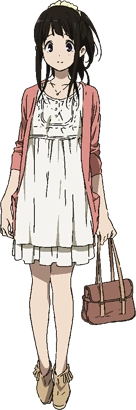
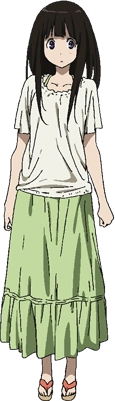
Replace sprites with modest, official school uniforms and winter coat

diff --git a/character.py b/character.py
@@ -18,7 +18,7 @@ from work_tools import StudySessionManager
 UNIFORM_SPRITE = os.path.join(os.path.dirname(__file__), "chitanda_uniform.png")
 CURIOUS_SPRITE = os.path.join(os.path.dirname(__file__), "chitanda_curious.png")
 CASUAL_SPRITE = os.path.join(os.path.dirname(__file__), "chitanda_casual.png")
-YUKATA_SPRITE = os.path.join(os.path.dirname(__file__), "chitanda_yukata.png")
+WINTER_SPRITE = os.path.join(os.path.dirname(__file__), "chitanda_winter.png")
 OREKI_SPRITE = os.path.join(os.path.dirname(__file__), "oreki_crisp.png")
 
 CHITANDA_QUOTES = [
@@ -126,7 +126,7 @@ class KingCharacter(QWidget):
             "uniform": UNIFORM_SPRITE,
             "curious": CURIOUS_SPRITE,
             "casual": CASUAL_SPRITE,
-            "yukata": YUKATA_SPRITE,
+            "winter": WINTER_SPRITE,
             "oreki": OREKI_SPRITE
         }
 
@@ -508,9 +508,9 @@ class KingCharacter(QWidget):
         # Outfit & Character submenu
         outfit_menu = menu.addMenu("👗 Change Outfit / Character")
         act_unif = outfit_menu.addAction("🌸 School Sailor Uniform (Chitanda)")
-        act_cur = outfit_menu.addAction("✨ Curious Leaning Pose (Chitanda)")
-        act_cas = outfit_menu.addAction("👒 Summer Casual Sundress (Chitanda)")
-        act_yuk = outfit_menu.addAction("🎆 Festival Yukata (Chitanda)")
+        act_cur = outfit_menu.addAction("✨ Inquisitive School Uniform (Chitanda)")
+        act_cas = outfit_menu.addAction("🍃 Knit Vest & Blouse (Chitanda)")
+        act_win = outfit_menu.addAction("🧥 Winter Coat & Scarf (Chitanda)")
         outfit_menu.addSeparator()
         act_oreki = outfit_menu.addAction("🍵 Houtarou Oreki (Energy Saver)")
 
@@ -548,8 +548,8 @@ class KingCharacter(QWidget):
             self.set_outfit("curious")
         elif action == act_cas:
             self.set_outfit("casual")
-        elif action == act_yuk:
-            self.set_outfit("yukata")
+        elif action == act_win:
+            self.set_outfit("winter")
         elif action == act_oreki:
             self.set_outfit("oreki")
         elif action == action_compact:

diff --git a/README.md b/README.md
@@ -14,9 +14,9 @@ Powered locally and privately by **Ollama** and **PySide6 (Qt6)**.
   - Frameless, translucent floating desktop character that wanders, breathes, naps (Zzz), and reacts to your interactions.
   - **4 Outfits / Character Modes**:
     - School Sailor Uniform (Classic Literature Club)
-    - Signature *"I'm curious! (私、気になります！)"* leaning pose
-    - Summer Casual Sundress
-    - Festival Yukata
+    - Inquisitive School Uniform (with knit vest & hands clasped)
+    - Sage Green Knit Vest & Blouse
+    - Warm Winter Duffle Coat & Scarf
     - Houtarou Oreki (Energy-Saving Protagonist) switchable via context menu
   - Blooming curiosity aura (`#ec4899`, `#a855f7`) when thinking or curious.
 
